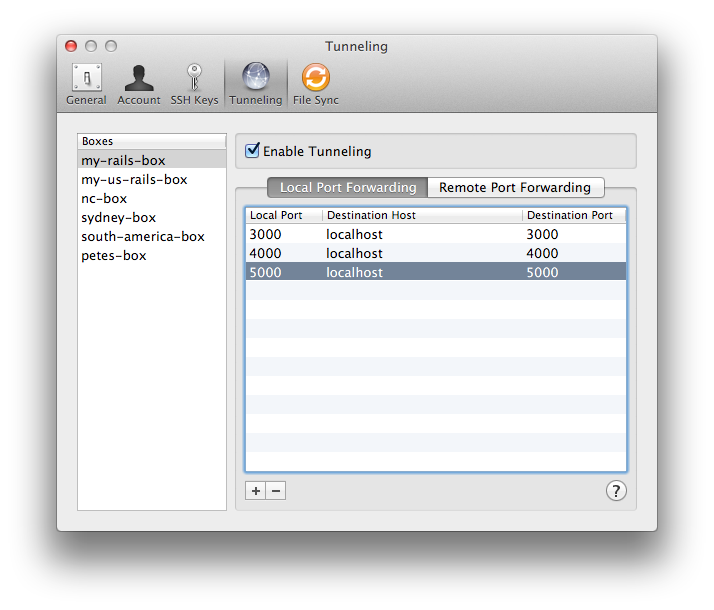
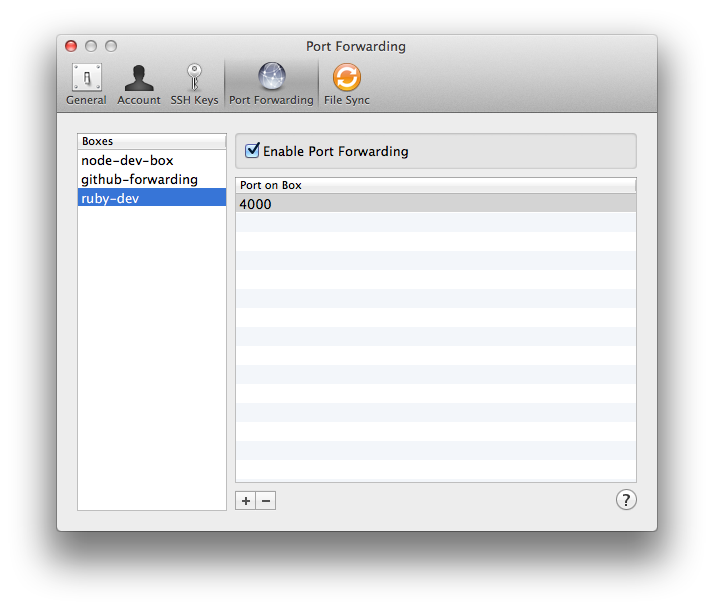
s/tunneling/port forwarding. We'll want to fix the screenshots to be consistent as well.

Changed region(s): [[0.0924, 0.218, 0.8936, 0.841], [0.3081, 0.0623, 0.5854, 0.1869]]

diff --git a/_posts/2013-06-28-mac-preferences.md b/_posts/2013-06-28-mac-preferences.md
@@ -5,7 +5,7 @@ published: true
 categories: [faq, mac]
 ---
 
-Your [Nitrous.IO for Mac](https://nitrous.io/mac) preferences allow you to configure the connection between your computer and your boxes running on Nitrous.IO. For example, you can add/remove SSH keys, setup tunneling to preview applications you are developing, and manage shared folders for local editing.
+Your [Nitrous.IO for Mac](https://nitrous.io/mac) preferences allow you to configure the connection between your computer and your boxes running on Nitrous.IO. For example, you can add/remove SSH keys, setup port forwarding to preview applications you are developing, and manage shared folders for local editing.
 
 ### Accessing Nitrous.IO for Mac preferences on Mac OS X
 
@@ -42,17 +42,17 @@ If you do not have a public and private key, you can click the **Generate** butt
 
 You can also tell the application to look for your key or get a new key if you've regenerated one manually by clicking the **Rescan** button.
 
-### Tunneling
+### Port Forwarding
 
-Tunneling allows you to forward ports to your
+Port forwarding allows you to forward ports to your Nitrous.IO box from localhost. This allows you, for example, to map your application server running on port 4000 on your Nitrous.IO box to port 4000 on localhost.
 
-![Mac Tunneling](/images/articles/mac-tunneling.png)
+![Mac Port Forwarding](/images/articles/mac-tunneling.png)
 
-To be able to tunnel to your Nitrous.IO box, you must first select the box from the list on the left of the preference pane, and check the **Enable Tunneling** checkbox.
+To enable port forwarding to your Nitrous.IO box, first select it from the list on the left of the preference pane, and check the **Enable Port Forwarding** checkbox.
 
-Next, click the **+** icon at the bottom of the pane and enter the local port, destination host, and destination port where you would like to forward.
+Next, click the **+** icon at the bottom of the pane and enter port you'd like to forward.
 
-Repeat these steps for each of the boxes where you'd like to setup tunneling.
+Repeat these steps for each of the boxes where you'd like to setup port forwarding.
 
 ### File Sync
 
